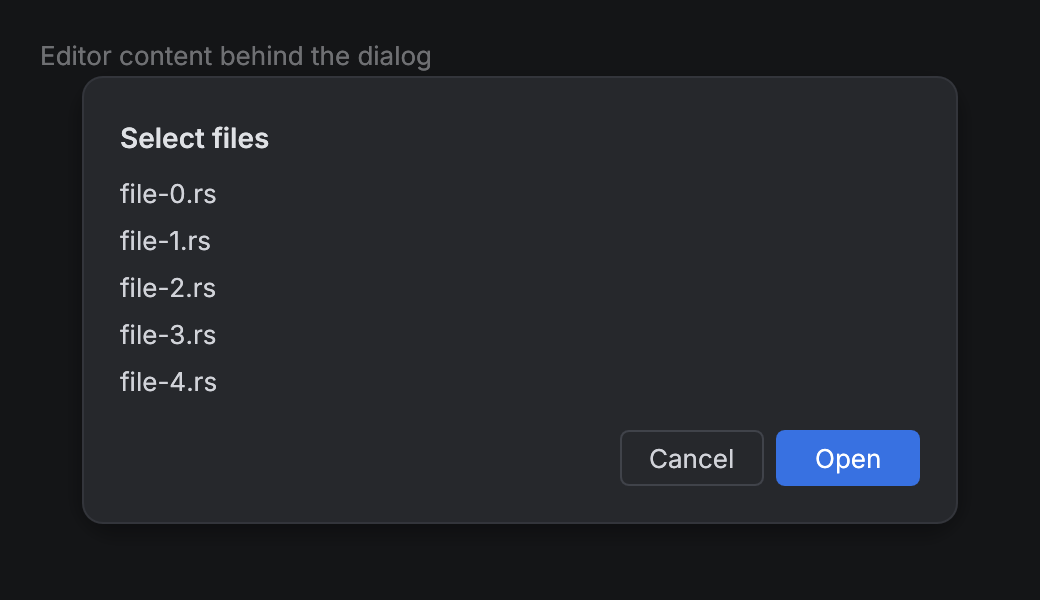
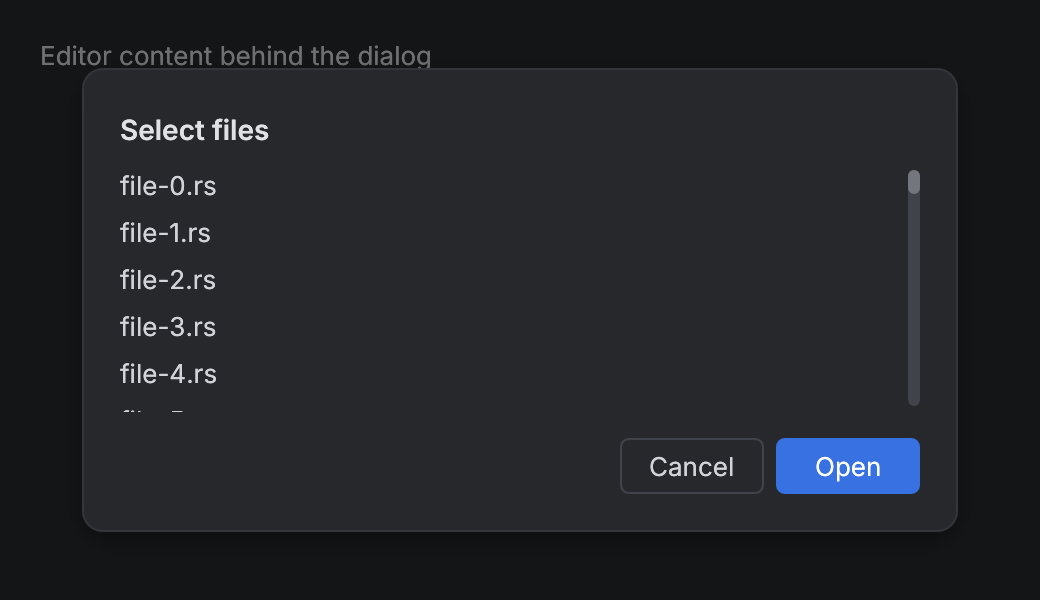
fix(dialog)!: tertiary action reading-order Tab, measured chrome height, visible scrollbar
DialogAction is now #[non_exhaustive]. The dialog button row is drawn left to
right so Tab follows reading order, the non-scrolling height is computed from
tokens and the measured title instead of a constant, and the scroll bar is
solid and themed.

BREAKING CHANGE: DialogAction has a new Tertiary variant and is now
non_exhaustive; exhaustive matches need a wildcard arm.

diff --git a/crates/archipel-kit/src/components/overlay.rs b/crates/archipel-kit/src/components/overlay.rs
@@ -152,11 +152,9 @@ impl Widget for MenuSeparator {
 /// Custom dialog content.
 type Content<'a> = Box<dyn FnOnce(&mut Ui) + 'a>;
 
-/// Height of a dialog's title, buttons and padding, which don't scroll.
-const DIALOG_CHROME: f32 = 130.0;
-
 /// What the user did with a [`Dialog`].
 #[derive(Debug, Clone, Copy, PartialEq, Eq)]
+#[non_exhaustive]
 pub enum DialogAction {
     /// The primary button, or <kbd>Enter</kbd>.
     Primary,
@@ -296,6 +294,8 @@ impl<'a> Dialog<'a> {
         let colors = Theme::colors(ctx);
         let id = egui::Id::new(("archipel-dialog", &self.title));
         let frame = Surface::Dialog.frame(ctx);
+        let frame_height = frame.total_margin().sum().y;
+        let buttons_id = id.with("buttons");
         let mut action = None;
         let primary_enabled = self.primary_enabled;
         let max_height = self
@@ -329,31 +329,62 @@ impl<'a> Dialog<'a> {
                     common::text(ui.painter(), rect.min, title, colors.text_strong);
                 });
                 // Title and buttons stay; what lies between scrolls past the max height.
-                let body_max = (max_height - DIALOG_CHROME).max(size::ROW_HEIGHT);
-                egui::ScrollArea::vertical()
-                    .id_salt("archipel-dialog-body")
-                    .max_height(body_max)
-                    .auto_shrink([false, true])
-                    .show(ui, |ui| {
-                        ui.spacing_mut().item_spacing.y = size::SECTION_SPACING;
-                        if let Some(message) = &self.message {
-                            ui.add(
-                                egui::Label::new(
-                                    egui::RichText::new(message)
-                                        .font(typography::body(typography::BODY))
-                                        .color(colors.text),
-                                )
-                                .wrap(),
-                            );
-                        }
-                        if let Some(content) = self.content {
-                            content(ui);
-                        }
-                    });
+                // What doesn't scroll: the frame, the title as drawn (measured), the button
+                // row, and the four gaps between the title, body, space and buttons.
+                let title_height = ui.min_rect().height();
+                let chrome = frame_height
+                    + title_height
+                    + size::CONTROL_HEIGHT
+                    + 4.0 * size::SECTION_SPACING;
+                let body_max = (max_height - chrome).max(size::ROW_HEIGHT);
+                // A solid scroll bar: it shows that there is more without hovering.
+                ui.scope(|ui| {
+                    ui.spacing_mut().scroll = egui::style::ScrollStyle::solid();
+                    ui.visuals_mut().extreme_bg_color = colors.border;
+                    ui.visuals_mut().widgets.inactive.bg_fill = colors.text_placeholder;
+                    ui.visuals_mut().widgets.hovered.bg_fill = colors.text_secondary;
+                    ui.visuals_mut().widgets.active.bg_fill = colors.text_secondary;
+                    crate::parts::scroll_vertical()
+                        .id_salt("archipel-dialog-body")
+                        .max_height(body_max)
+                        .auto_shrink([false, true])
+                        .show(ui, |ui| {
+                            ui.spacing_mut().item_spacing.y = size::SECTION_SPACING;
+                            if let Some(message) = &self.message {
+                                ui.add(
+                                    egui::Label::new(
+                                        egui::RichText::new(message)
+                                            .font(typography::body(typography::BODY))
+                                            .color(colors.text),
+                                    )
+                                    .wrap(),
+                                );
+                            }
+                            if let Some(content) = self.content {
+                                content(ui);
+                            }
+                        });
+                });
                 ui.add_space(size::SECTION_SPACING);
                 // A fixed-height row: `with_layout` would take all the height left over.
+                // Drawn left to right so Tab follows reading order: tertiary, secondary,
+                // primary. The secondary and primary buttons sit at the right edge: the
+                // spacer uses their width from the last frame.
                 let row = vec2(ui.available_width(), size::CONTROL_HEIGHT);
-                ui.allocate_ui_with_layout(row, Layout::right_to_left(Align::Center), |ui| {
+                ui.allocate_ui_with_layout(row, Layout::left_to_right(Align::Center), |ui| {
+                    if let Some(tertiary) = &self.tertiary
+                        && ui.add(Button::secondary(tertiary.as_str())).clicked()
+                    {
+                        action = Some(DialogAction::Tertiary);
+                    }
+                    let group: f32 = ui.data(|d| d.get_temp(buttons_id)).unwrap_or(0.0);
+                    ui.add_space((ui.available_width() - group).max(0.0));
+                    let start = ui.cursor().min.x;
+                    if let Some(secondary) = &self.secondary
+                        && ui.add(Button::secondary(secondary.as_str())).clicked()
+                    {
+                        action = Some(DialogAction::Secondary);
+                    }
                     if let Some(primary) = &self.primary {
                         let button = if self.danger {
                             Button::danger(primary.as_str())
@@ -364,23 +395,20 @@ impl<'a> Dialog<'a> {
                             action = Some(DialogAction::Primary);
                         }
                     }
-                    if let Some(secondary) = &self.secondary
-                        && ui.add(Button::secondary(secondary.as_str())).clicked()
-                    {
-                        action = Some(DialogAction::Secondary);
-                    }
-                    if let Some(tertiary) = &self.tertiary {
-                        ui.with_layout(Layout::left_to_right(Align::Center), |ui| {
-                            if ui.add(Button::secondary(tertiary.as_str())).clicked() {
-                                action = Some(DialogAction::Tertiary);
-                            }
-                        });
+                    let width = ui.min_rect().right().max(start) - start;
+                    if (width - group).abs() > 0.5 {
+                        ui.data_mut(|d| d.insert_temp(buttons_id, width));
+                        ui.ctx().request_repaint();
                     }
                 });
             });
         if action.is_none() {
             // A multiline field keeps the focus when it takes Enter (a single-line field
             // gives it up), and Enter there is a new line: Ctrl/Cmd+Enter confirms.
+            // egui has no "this field is multiline" query, so this relies on two of its
+            // behaviours: a `TextEdit` reports IME output while it has focus, and a
+            // single-line one surrenders focus on Enter. Anything else that keeps the focus
+            // (no IME output) is not a text field: Enter still confirms. Tests pin this.
             let in_multiline = focus_before.is_some()
                 && ctx.memory(|m| m.focused()) == focus_before
                 && ctx.output(|o| o.ime.is_some());

diff --git a/crates/archipel-kit/tests/overlays.rs b/crates/archipel-kit/tests/overlays.rs
@@ -462,3 +462,56 @@ fn dialog_tertiary_snapshot() {
         },
     );
 }
+
+#[test]
+fn dialog_tab_order_follows_the_visual_order() {
+    let mut harness = testing::harness(Theme::dark(), |ui| {
+        let _ = tertiary_dialog(ui, 2);
+    });
+    harness.set_size(egui::vec2(520.0, 400.0));
+    harness.run_steps(3);
+    let mut order = Vec::new();
+    for _ in 0..6 {
+        harness.key_press(egui::Key::Tab);
+        harness.run_steps(2);
+        for label in ["Reset", "Cancel", "Open"] {
+            if harness.get_by_label(label).is_focused() {
+                order.push(label);
+            }
+        }
+    }
+    assert_eq!(
+        order,
+        ["Reset", "Cancel", "Open", "Reset", "Cancel", "Open"]
+    );
+}
+
+/// A focusable widget that is not a text field keeps the focus on Enter: Enter confirms.
+#[test]
+fn dialog_enter_confirms_with_a_custom_widget_holding_focus() {
+    let mut harness = testing::harness_state(Theme::dark(), None, |ui, action| {
+        let shown = Dialog::new("Pick")
+            .content(|ui| {
+                let (_, response) = ui.allocate_exact_size(
+                    egui::vec2(80.0, 24.0),
+                    egui::Sense::focusable_noninteractive(),
+                );
+                response.widget_info(|| {
+                    egui::WidgetInfo::labeled(egui::WidgetType::Other, true, "Swatch")
+                });
+                if !ui.memory(|m| m.has_focus(response.id)) {
+                    response.request_focus();
+                }
+            })
+            .primary("Save")
+            .show(ui.ctx());
+        if let Some(done) = shown {
+            action.get_or_insert(done);
+        }
+    });
+    harness.set_size(egui::vec2(520.0, 300.0));
+    harness.run_steps(3);
+    harness.key_press(egui::Key::Enter);
+    harness.run_steps(2);
+    assert_eq!(*harness.state(), Some(DialogAction::Primary));
+}
